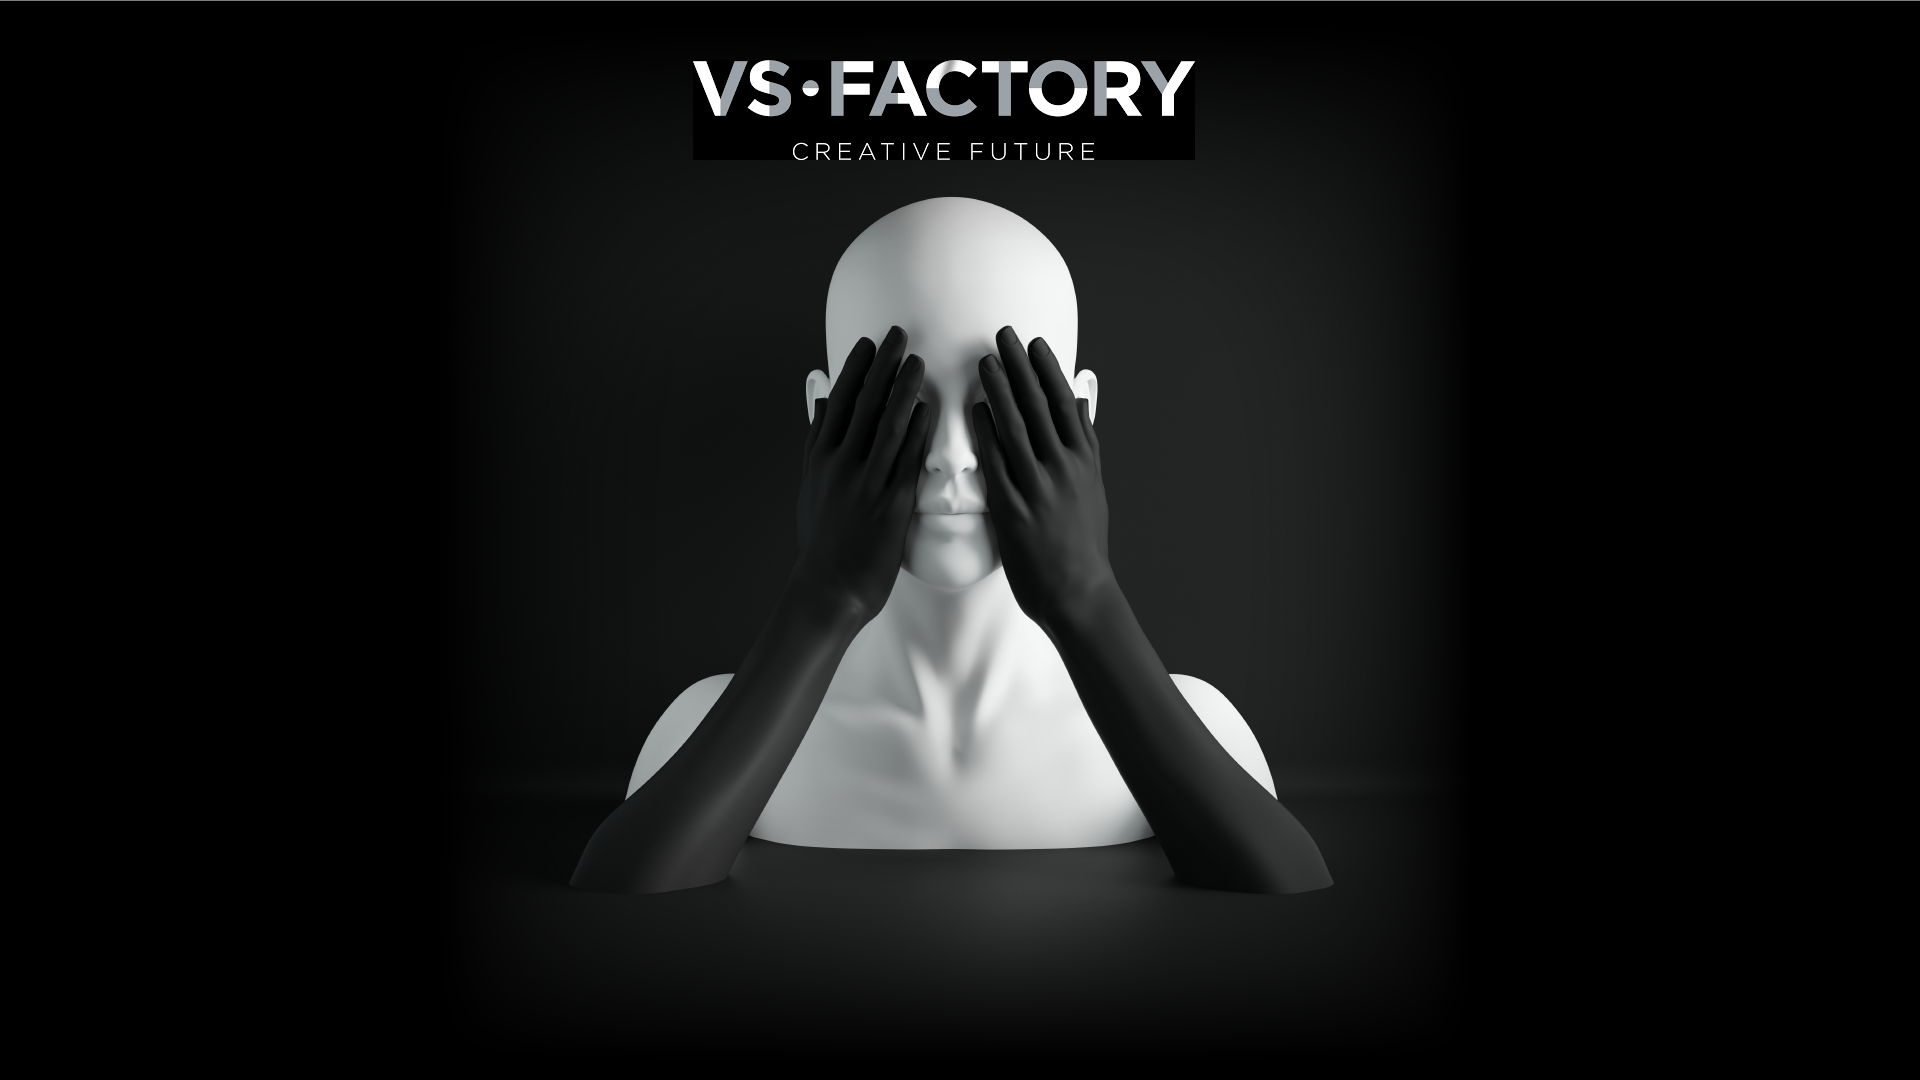
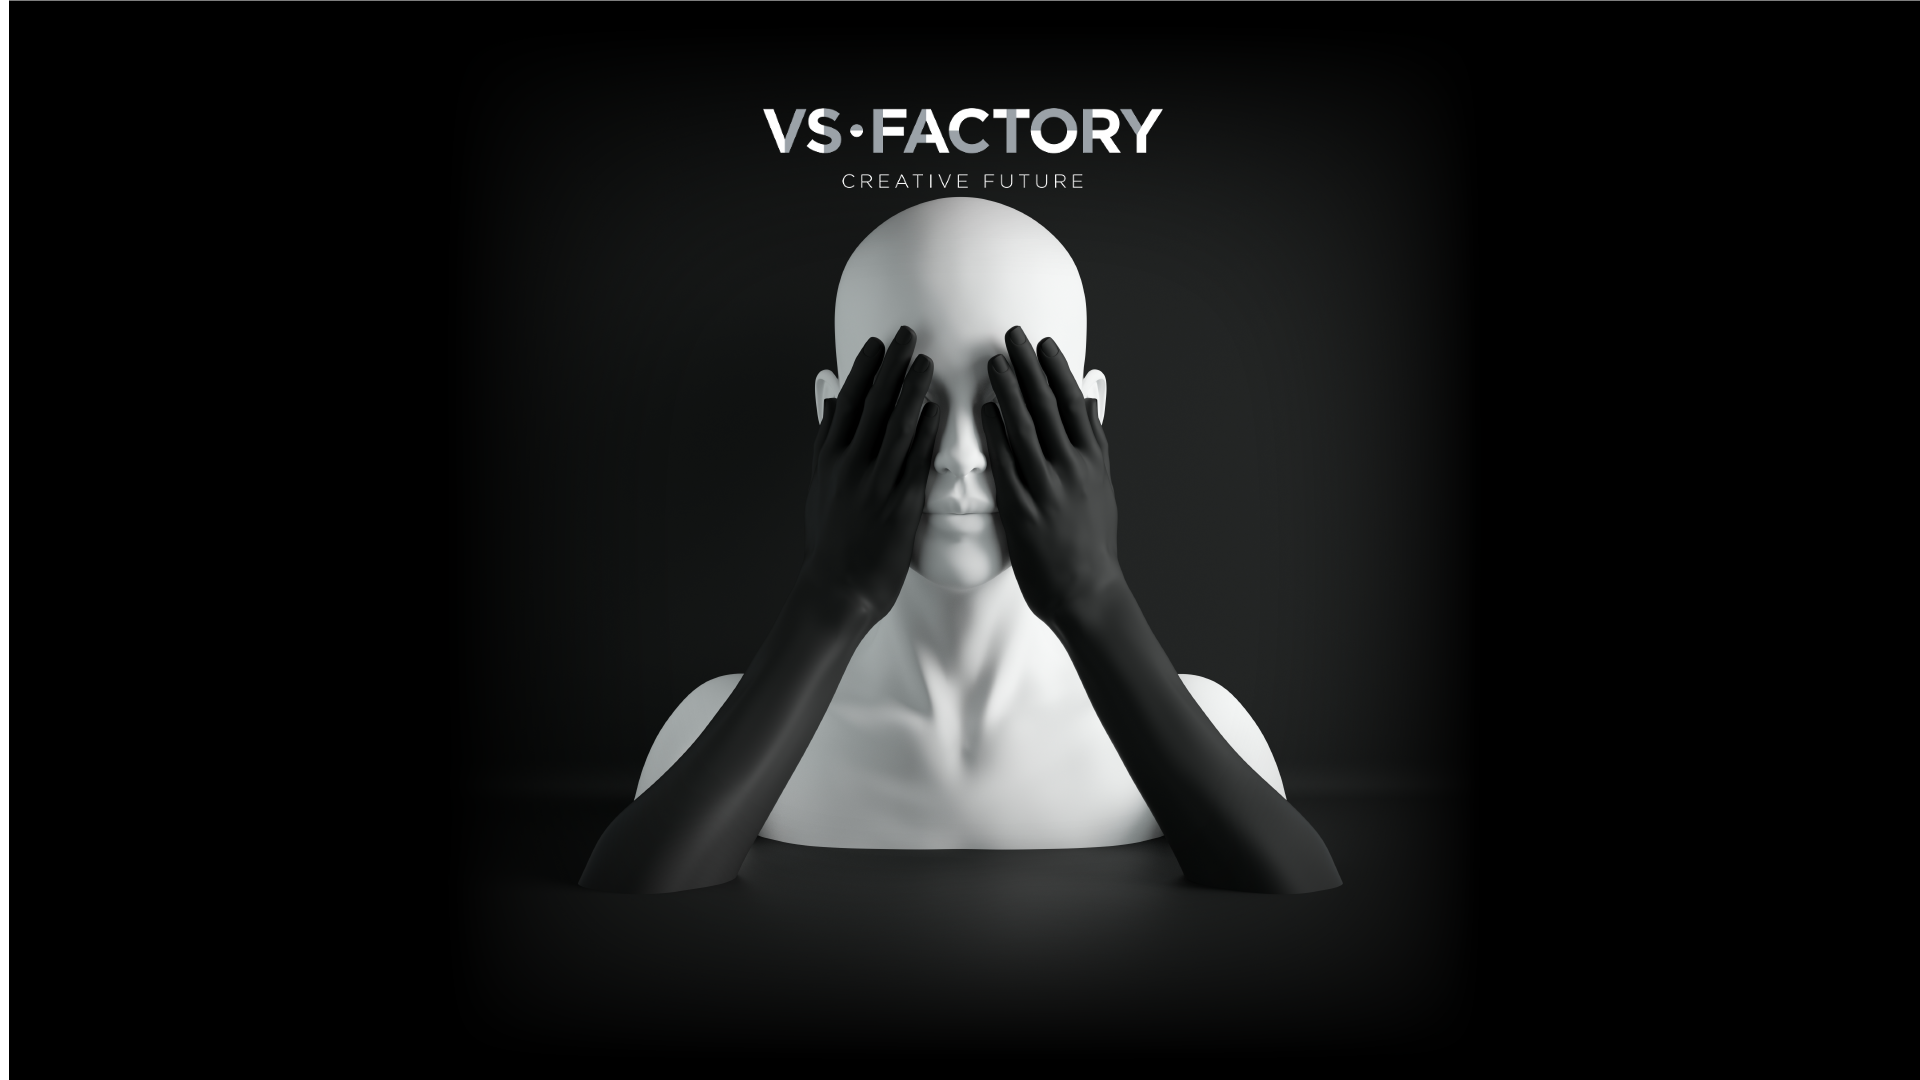
add images that fit better on mobiles

diff --git a/src/components/Projects.js b/src/components/Projects.js
@@ -32,7 +32,12 @@ export function ProjectSelector({ projectDetails, index }) {
     <div>
       <Parallax
         strength={200}
-        bgImage={require('../assets/images/projects/' + projectDetails.image)}
+        bgImage={
+          window.innerWidth < 897
+            ? require('../assets/images/projects/' +
+                projectDetails.imageMobile)
+            : require('../assets/images/projects/' + projectDetails.image)
+        }
         className={'project-selector ' + (index % 2 ? 'right' : 'left')}
         renderLayer={percentage => (
           <div
@@ -72,7 +77,7 @@ export function ProjectSelector({ projectDetails, index }) {
         onMouseLeave={() => toggleHover(false)}
       >
         <header
-          style={{ opacity: 1-Math.cos(2 * Math.PI * percentage) }}
+          style={{ opacity: 1 - Math.cos(2 * Math.PI * percentage) }}
           className={
             'project-selector-header ' +
             (hover ? 'hover ' : ' ') +

diff --git a/src/templates/project.js b/src/templates/project.js
@@ -14,6 +14,7 @@ const project = props => {
   const {
     title,
     image,
+    imageMobile,
     text,
     quote,
     objectif,
@@ -35,8 +36,13 @@ const project = props => {
       <section id="project-header">
         {/* <img src={require('../assets/images/projects/' + image)} alt="" /> */}
         <Parallax
-          strength={-100}
-          bgImage={require('../assets/images/projects/' + image)}
+          strength={-200}
+          bgImage={
+            window.innerWidth < 897
+              ? require('../assets/images/projects/' +
+                  imageMobile)
+              : require('../assets/images/projects/' + image)
+          }
           bgImageAlt=""
         >
           <div className="parallax-content" />

diff --git a/gatsby-node.js b/gatsby-node.js
@@ -16,6 +16,7 @@ exports.createPages = async ({ actions: { createPage }, graphql }) => {
             slug
             subtitle
             image
+            imageMobile
             text
             quote
             objectif
@@ -48,6 +49,7 @@ exports.createPages = async ({ actions: { createPage }, graphql }) => {
         slug: project.slug,
         subtitle: project.subtitle,
         image: project.image,
+        imageMobile: project.imageMobile,
         text: project.text,
         quote: project.quote,
         objectif: project.objectif,
